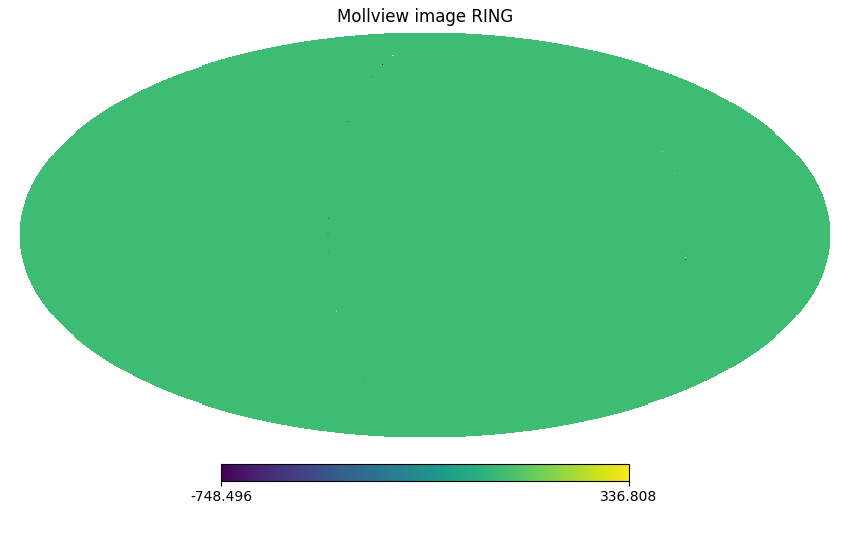
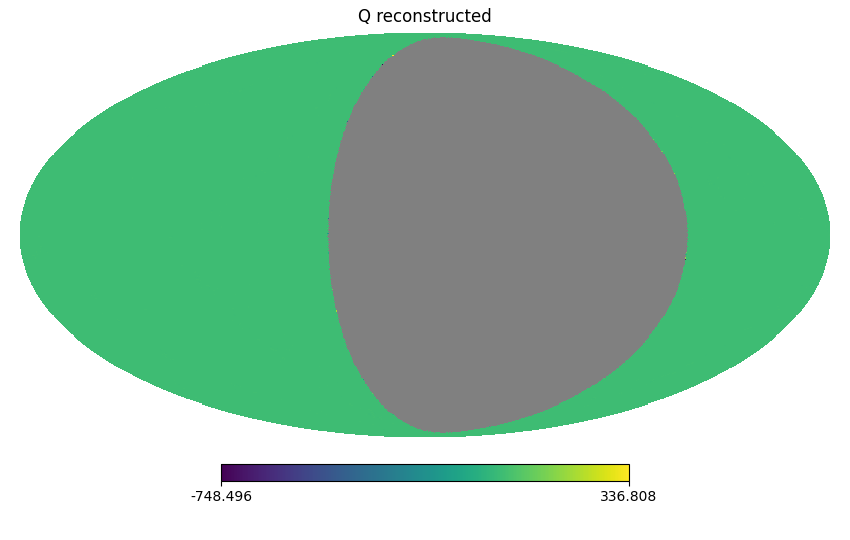
still working on map-maker

Changed region(s): [[0.3671, 0.0, 0.8259, 0.8]]

diff --git a/beamconv/pipeline.py b/beamconv/pipeline.py
@@ -36,18 +36,31 @@ import time
 start = time.time()
 
 # month of the simulation
+# should be passed as an input parameter
 month = 0
 
 ########################################################
 # INPUT MAPS
 ########################################################
 
+nside = 128
+lmax = 2*nside
+
 sky = pysm3.Sky(nside=128, preset_strings=["c1"], output_unit="uK_CMB")
 
 nu = 140 # since I'll be using the M1-140 channel
-lmax = 256
+
 map_FG = sky.get_emission(nu * u.GHz)
 alm_FG = hp.map2alm(map_FG, lmax=lmax)
+
+hp.visufunc.mollview(map_FG[0],title='I input')
+plt.savefig('I_input.png')
+
+hp.visufunc.mollview(map_FG[1],title='Q input')
+plt.savefig('Q_input.png')
+
+hp.visufunc.mollview(map_FG[2],title='V input')
+plt.savefig('V_input.png')
 
 ########################################################
 # SCANNING STRATEGY
@@ -433,9 +446,9 @@ print('map done: '+str(time.time()-start))
 
 npix = hp.nside2npix(128)
 
-I_signal = np.zeros(npix)
-Q_signal = np.zeros(npix)
-U_signal = np.zeros(npix)
+I_signal = np.full(npix,hp.pixelfunc.UNSEEN)
+Q_signal = np.full(npix,hp.pixelfunc.UNSEEN)
+U_signal = np.full(npix,hp.pixelfunc.UNSEEN)
 
 I_signal[pix_reduced] = s[3*integers]
 Q_signal[pix_reduced] = s[3*integers+1]
@@ -463,11 +476,11 @@ U_signal[pix_reduced] = s[3*integers+2]
 now = time.time()
 print(now - start)
 
-hp.mollview(I_signal, title="Mollview image RING")
+hp.mollview(I_signal, title="I reconstructed")
 plt.savefig('I_test.png')
 
-hp.mollview(Q_signal, title="Mollview image RING")
+hp.mollview(Q_signal, title="Q reconstructed")
 plt.savefig('Q_test.png')
 
-hp.mollview(U_signal, title="Mollview image RING")
+hp.mollview(U_signal, title="U reconstructed")
 plt.savefig('U_test.png')
